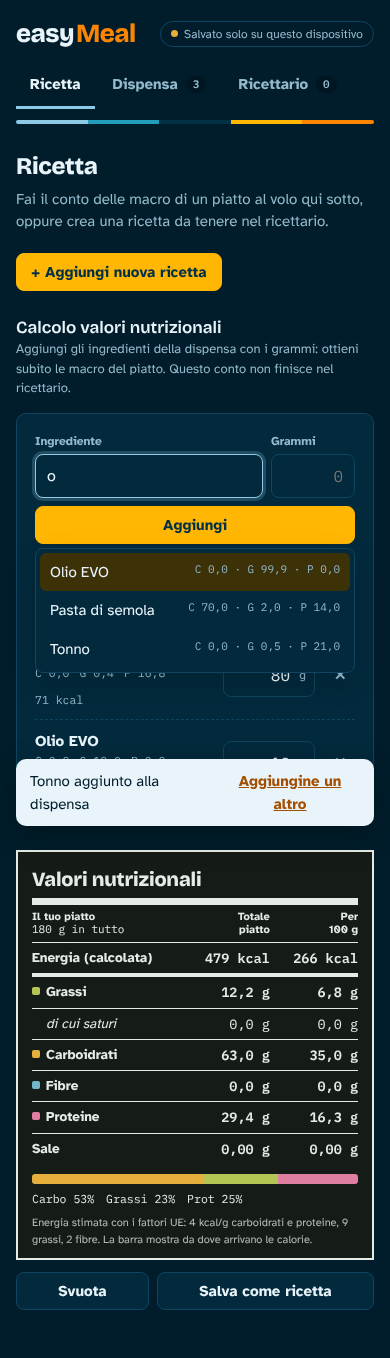
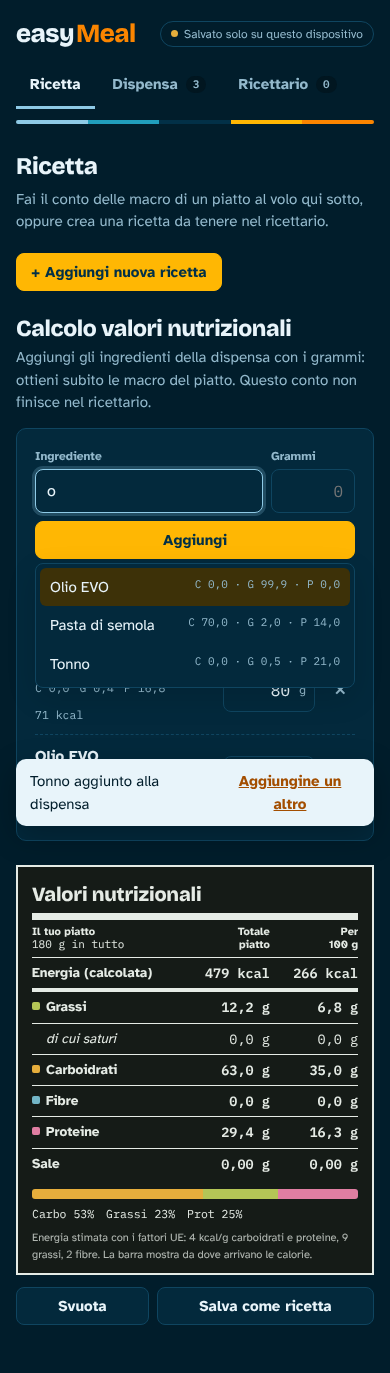
Titoli più grandi per calcolo valori nutrizionali e nuova ricetta
Claude-Session: https://claude.ai/code/session_01SPtgfn2JNCausPQT5DfzD7

diff --git a/index.html b/index.html
@@ -172,6 +172,8 @@ h3 { font-family: var(--f-display); font-weight: 600; font-size: 17px; margin: 0
 .empty-card strong { color: var(--ink); font-family: var(--f-display); font-size: 17px; }
 .block { display: flex; flex-direction: column; gap: 14px; }
 .block + .block, #rec-new-row + .block { padding-top: 4px; }
+.block-title { font-family: var(--f-display); font-weight: 800; font-size: 23px; letter-spacing: -0.015em; line-height: 1.2; text-wrap: balance; }
+.block-lede { margin: 4px 0 0; color: var(--muted); font-size: 15px; max-width: 62ch; }
 textarea.input { resize: vertical; min-height: 76px; line-height: 1.45; }
 .field label .opt { font-weight: 400; color: var(--muted); }
 .rcard .desc { margin: 0; color: var(--muted); font-size: 13.5px; white-space: pre-line; overflow-wrap: anywhere; }
@@ -280,7 +282,7 @@ table.data tr.is-editing td { background: var(--accent-soft); }
     <!-- Nuova ricetta / modifica: chiusa finché non premi il pulsante -->
     <div class="block" id="rec-editor" hidden>
       <div class="row">
-        <h3 id="rec-title">Nuova ricetta</h3>
+        <h3 class="block-title" id="rec-title">Nuova ricetta</h3>
       </div>
       <div id="editing-note"></div>
       <div class="builder">
@@ -315,8 +317,8 @@ table.data tr.is-editing td { background: var(--accent-soft); }
     <!-- Calcolo veloce: sempre aperto, solo ingredienti -->
     <div class="block" id="calc">
       <div>
-        <h3>Calcolo valori nutrizionali</h3>
-        <p class="hint">Aggiungi gli ingredienti della dispensa con i grammi: ottieni subito le macro del piatto. Questo conto non finisce nel ricettario.</p>
+        <h3 class="block-title">Calcolo valori nutrizionali</h3>
+        <p class="block-lede">Aggiungi gli ingredienti della dispensa con i grammi: ottieni subito le macro del piatto. Questo conto non finisce nel ricettario.</p>
       </div>
       <div class="builder">
         <div class="panel">

diff --git a/src/easymeal.html b/src/easymeal.html
@@ -162,6 +162,8 @@ h3 { font-family: var(--f-display); font-weight: 600; font-size: 17px; margin: 0
 .empty-card strong { color: var(--ink); font-family: var(--f-display); font-size: 17px; }
 .block { display: flex; flex-direction: column; gap: 14px; }
 .block + .block, #rec-new-row + .block { padding-top: 4px; }
+.block-title { font-family: var(--f-display); font-weight: 800; font-size: 23px; letter-spacing: -0.015em; line-height: 1.2; text-wrap: balance; }
+.block-lede { margin: 4px 0 0; color: var(--muted); font-size: 15px; max-width: 62ch; }
 textarea.input { resize: vertical; min-height: 76px; line-height: 1.45; }
 .field label .opt { font-weight: 400; color: var(--muted); }
 .rcard .desc { margin: 0; color: var(--muted); font-size: 13.5px; white-space: pre-line; overflow-wrap: anywhere; }
@@ -270,7 +272,7 @@ table.data tr.is-editing td { background: var(--accent-soft); }
     <!-- Nuova ricetta / modifica: chiusa finché non premi il pulsante -->
     <div class="block" id="rec-editor" hidden>
       <div class="row">
-        <h3 id="rec-title">Nuova ricetta</h3>
+        <h3 class="block-title" id="rec-title">Nuova ricetta</h3>
       </div>
       <div id="editing-note"></div>
       <div class="builder">
@@ -305,8 +307,8 @@ table.data tr.is-editing td { background: var(--accent-soft); }
     <!-- Calcolo veloce: sempre aperto, solo ingredienti -->
     <div class="block" id="calc">
       <div>
-        <h3>Calcolo valori nutrizionali</h3>
-        <p class="hint">Aggiungi gli ingredienti della dispensa con i grammi: ottieni subito le macro del piatto. Questo conto non finisce nel ricettario.</p>
+        <h3 class="block-title">Calcolo valori nutrizionali</h3>
+        <p class="block-lede">Aggiungi gli ingredienti della dispensa con i grammi: ottieni subito le macro del piatto. Questo conto non finisce nel ricettario.</p>
       </div>
       <div class="builder">
         <div class="panel">
